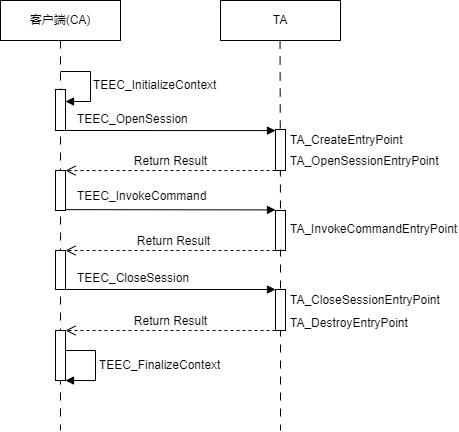
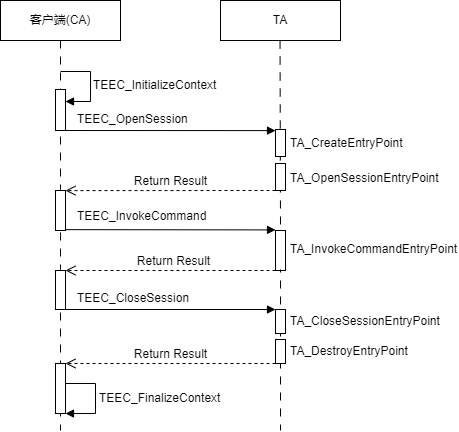
add ca guide

diff --git a/docs/opentrustee-guidelines/opentrustee-app-develop-guidelines.md b/docs/opentrustee-guidelines/opentrustee-app-develop-guidelines.md
@@ -1,3 +1,36 @@
+
+
+## CA/TA访问机制
+
+OpenTrustee应用分为CA（客户端应用）和TA（可信应用）。OpenTrustee支持CA访问TA，也支持TA访问TA。TA采用命令响应机制，交互流程如下：
+
+![](figures/ca-ta.png)
+
+
+1. CA调用TEEC_InitializeContext初始化客户端上下文，这个过程并不会访问TA。
+2. CA调用TEEC_OpenSession建立与TA的会话。OpenTrustee系统会把TA加载运行，创建TA实例并调用TA的TA_CreateEntryPoint。然后再创建TA会话并调用TA的TA_OpenSessionEntryPoint接口。客户端可以跟TA建立多个会话，每个会话发起时OpenTrustee都会调用TA_OpenSessionEntryPoint接口。
+3. CA调用TEEC_InvokeCommand向TA发送命令，OpenTrustee系统会调用TA的TA_InvokeCommandEntryPoint接口处理该命令并返回结果。
+4. CA调用TEEC_CloseSession关闭与TA的会话。OpenTrustee系统会调用TA的TA_CloseSessionEntryPoint接口清理资源。在TA最后一个会话被关闭时，OpenTrustee系统会调用TA的TA_DestroyEntryPoint接口清理全局资源。
+5. CA调用TEEC_FinalizeContext，清理上下文。
+
+![](public_sys-resources/icon-note.gif)OpenTrustee的实现遵循GP TEE标准的规定，上述流程可参考GP TEE标准。
+
+## CA开发指导
+
+CA即OpenHarmony系统侧应用，可以是用户态native程序或SA服务，也可以是内核态驱动，暂不支持HAP应用。
+
+### 用户态CA
+
+对于用户态CA，OpenTrustee TEE client模块为CA提供了访问TEE的接口库和API。
+
+
+
+### 内核态CA
+
+对于内核态CA，OpenTrustee Tzdriver模块为CA提供了访问TEE的内核API。
+
+### CA API
+
 ## TA开发指导
 
 ### TA安装包
@@ -131,21 +164,6 @@ pip install defusedxml
 如果在编译过程中提示缺少其他python库，需要一并安装。
 
 ### TA开发步骤
-
-##### TA工作机制
-
-OpenTrustee支持CA访问TA，也支持TA访问TA。TA采用命令响应机制，交互流程如下：
-
-![](figures/ca-ta.png)
-
-
-1. 客户端调用TEEC_InitializeContext初始化TEE Client上下文，这个过程并不会访问TA。
-2. 客户端调用TEEC_OpenSession建立与TA的会话。OpenTrustee系统会把TA加载运行，创建TA实例并调用TA的TA_CreateEntryPoint。然后再创建TA会话并调用TA的TA_OpenSessionEntryPoint接口。客户端可以跟TA建立多个会话，每个会话发起时OpenTrustee都会调用TA_OpenSessionEntryPoint接口。
-3. 客户端调用TEEC_InvokeCommand向TA发送命令，OpenTrustee系统会调用TA的TA_InvokeCommandEntryPoint接口处理该命令并返回结果。
-4. 客户端调用TEEC_CloseSession关闭与TA的会话。OpenTrustee系统会调用TA的TA_CloseSessionEntryPoint接口清理资源。在TA最后一个会话被关闭时，OpenTrustee系统会调用TA的TA_DestroyEntryPoint接口清理全局资源。
-5. 客户端调用TEEC_FinalizeContext，清理上下文。
-
-![](public_sys-resources/icon-note.gif)OpenTrustee的实现遵循GP TEE标准的规定，上述流程可参考GP TEE标准。
 
 ##### TA代码编写
 

diff --git a/docs/opentrustee-guidelines/overview-of-opentrustee.md b/docs/opentrustee-guidelines/overview-of-opentrustee.md
@@ -4,22 +4,21 @@
 
 OpenTrustee是一个部署在可信执行环境（TEE）中的安全操作系统。ARM架构中的TrustZone技术通过CPU层面的硬件设计，支持创建安全的可信执行环境。基于ARM TrustZone技术，我们可以在设备上同时运行OpenHarmony和OpenTrustee两个系统，这两个系统彼此隔离。基于这种系统隔离带来的安全性，OpenTrustee可以为设备的机密数据提供保护。
 
-## **安全能力**
-
-OpenTrustee支持安全计算、安全存储、安全密钥、安全外设、安全时钟等安全能力。
-
 ## **应用场景**
 
 在终端设备越来越智能化的今天，人们正在把越来越多的个人应用和数据放到设备上，安全性成为一个很重要的命题。可信执行环境（TEE）已逐渐成为终端设备必备的安全技术。OpenTrustee具备丰富的安全特性，可以支持开发者灵活部署安全应用，应用场景也非常广泛，例如：移动支付、生物认证、版权保护等，也可以为系统安全提供保护，如安全启动、系统完整性检测等。
 
 ## **术语**
 
-| 缩略语     | 说明                                                         | 备注 |
+| 缩略语     | 英文                                     | 中文 |
 | ------------ | ------------------------------------------------------------ | --- |
-| TEE     | Trusted Execution Environment | 可信执行环境，也称作安全世界，运行在此环境中的代码受到安全保护 |
-| REE     | Rich Execution Environment | 丰富执行环境，也称作非安全世界 |
-| TA       | Trusted Application       | 安全服务或可信应用（运行在TEE中）|
-| CA     | Client Application   | 客户端应用（运行在REE中），此部分区分Linux内核态CA和用户态CA |
+| TEE     | Trusted Execution Environment | 可信执行环境，也称作安全世界 |
+| REE     | Rich Execution Environment | 富执行环境，也称作非安全世界 |
+| TA       | Trusted Application       | 可信应用 |
+| CA     | Client Application   | 客户端应用 |
+| SDK | Software Development Kit | 软件开发包 |
+| GP | GlobalPlatform | 国际标准组织 |
+| ATF | ARM Trusted Firmware | ARM可信固件 |
 
 ## 系统架构
 
